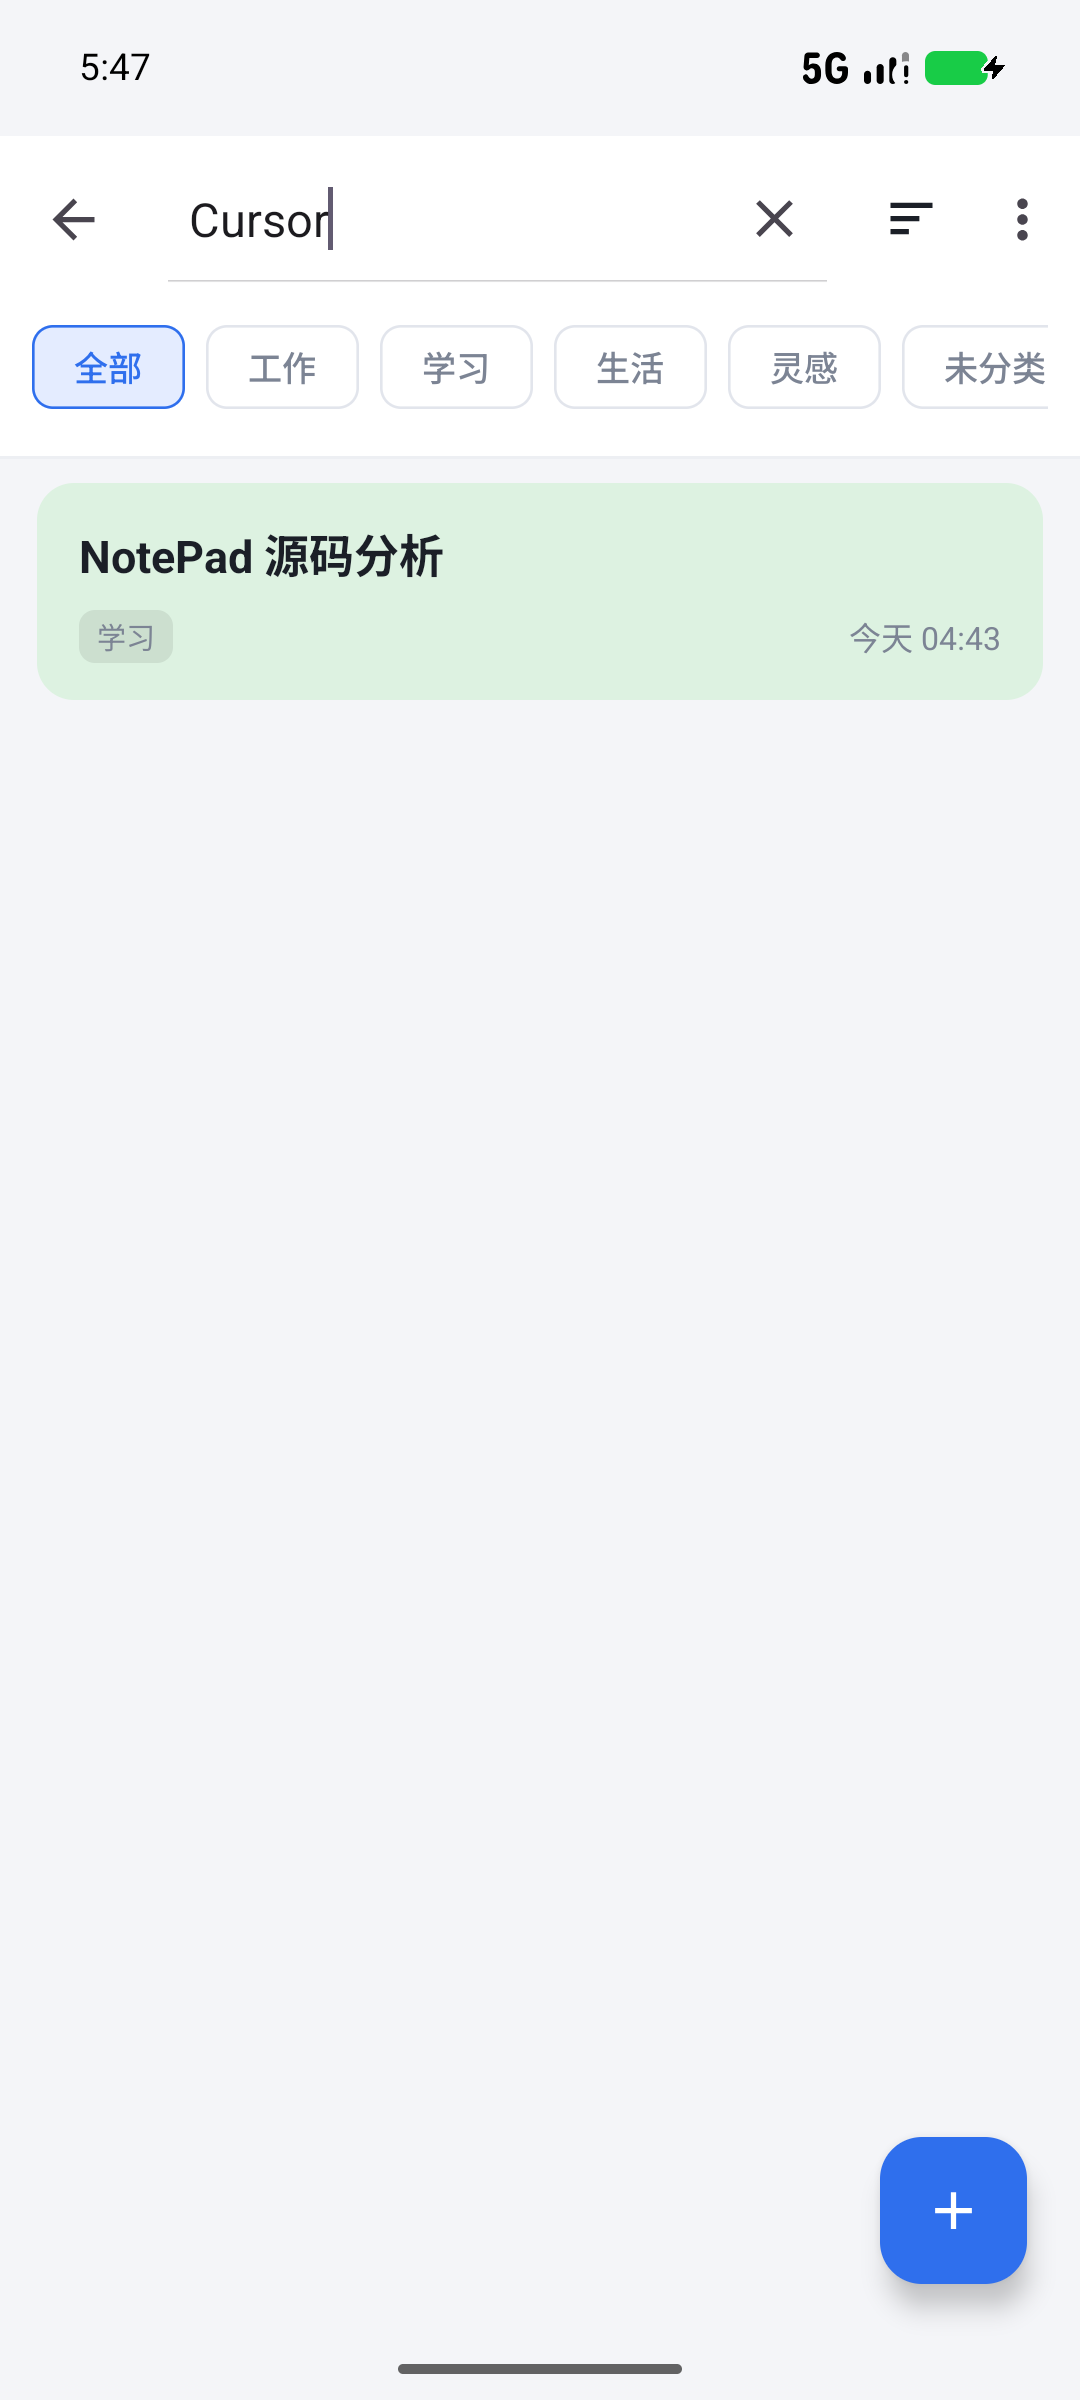
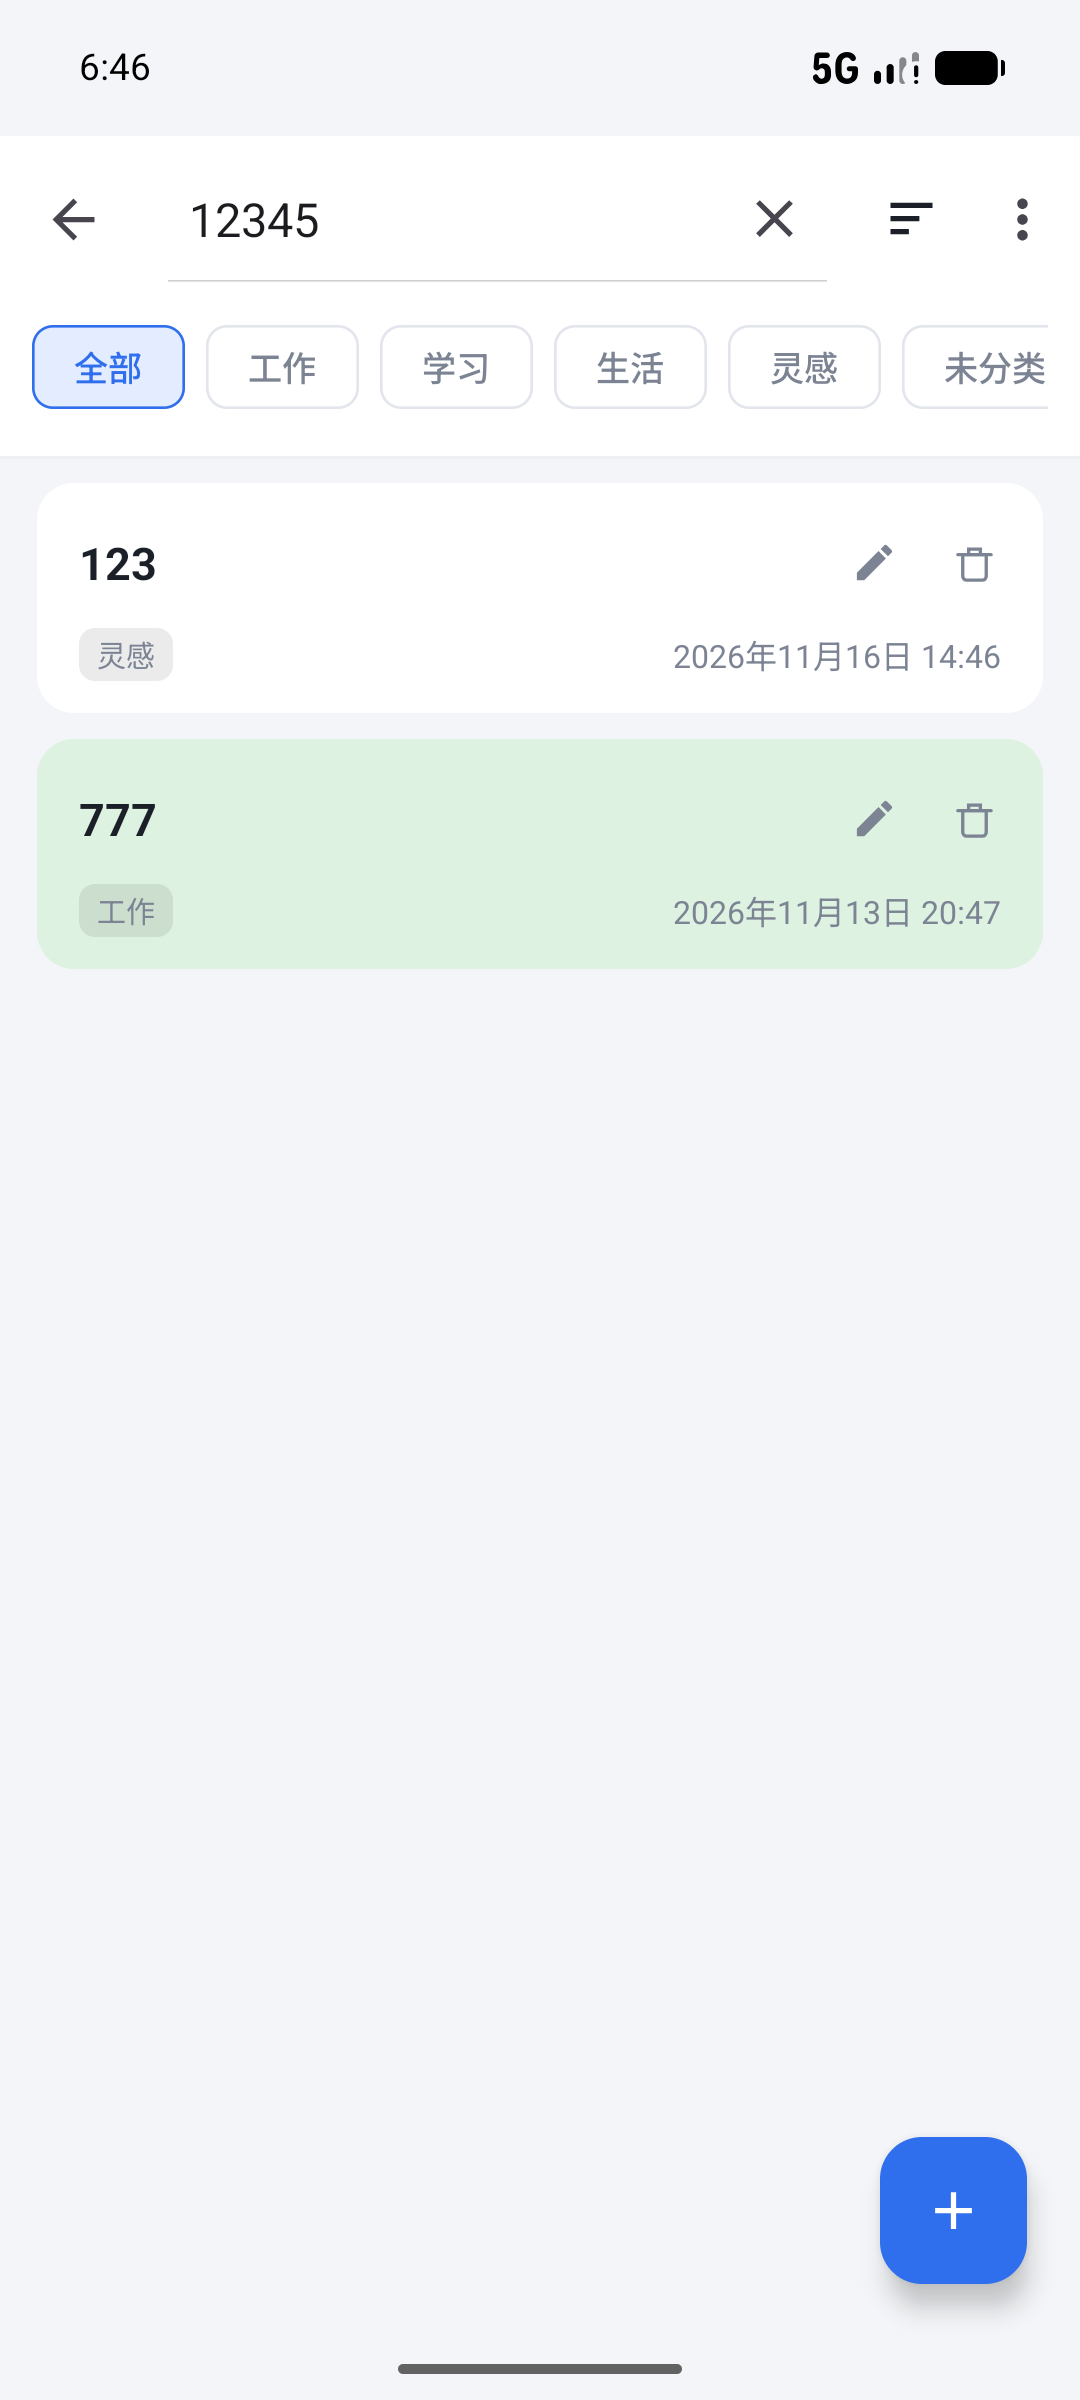
更新运行截图：按当前版本重拍全部 14 张截图
- 覆盖旧版截图（相对时间、无标题输入框、旧版长按菜单）
- 同步更新 README 预览与项目报告说明

diff --git a/项目报告.md b/项目报告.md
@@ -316,6 +316,8 @@ public boolean dispatchGenericMotionEvent(MotionEvent ev) {
 
 > 长按与右键菜单均为自绘的 `PopupWindow` 浮动菜单，长按场景只构建「复制笔记」一项；右键落在空白处时构建「粘贴笔记 / 新建笔记」，落在条目上时额外加入「复制笔记」。
 
+![长按复制菜单](screenshots/13_长按菜单.png)
+
 ### 5.8 退出前询问是否保存
 
 编辑页的返回箭头与系统返回键统一走 `confirmExit()`：
@@ -379,7 +381,7 @@ getContentResolver().update(mUri, values, null, null);
 | T10 | 设置分类 | 编辑器菜单 → 分类 | 选择后顶部信息栏更新 | 通过（图 10） |
 | T11 | 新建笔记 | FAB / 菜单新建，填写标题与正文 | 保存后出现在列表 | 通过（图 11） |
 | T12 | 空状态 | 删除全部笔记或搜索无结果 | 显示对应空状态提示 | 通过（图 12） |
-| T13 | 长按复制 | 长按笔记卡片 | 弹出仅含「复制笔记」的浮动菜单 | 通过 |
+| T13 | 长按复制 | 长按笔记卡片 | 弹出仅含「复制笔记」的浮动菜单 | 通过（图 13） |
 | T14 | 退出询问保存 | 修改内容后点返回 | 弹出「保存 / 不保存 / 取消」 | 通过（图 14） |
 | T15 | 整篇粘贴 | 复制后右键空白处粘贴 | 标题、正文、分类、颜色完整还原 | 通过 |
 | T16 | 不保存恢复 | 修改后返回选「不保存」 | 内容恢复原样，时间戳不变 | 通过 |
@@ -401,8 +403,6 @@ cd NotePad
 
 - 工程中保留了官方示例自带的 `androidTest` 用例（`NotePadActivityTest`、`NotePadProviderTest`），其基于已废弃的 `android.test` 框架，主要作为原始代码的参考，未纳入本次功能验证。
 - 本次功能验证以模拟器人工操作为主，所有截图均为实际运行截图。
-- 截图 02–11 拍摄于功能迭代中期：当时时间戳仍显示为「今天 / 昨天」等相对时间，标题输入框也尚未加入。最终版本已统一为完整日期格式（见截图 01、14）并增加独立标题输入框（见截图 14）；截图所示功能本身在最终版本中均保留。
-- 截图 13 为早期版本的条目长按菜单（当时包含打开 / 复制 / 删除），仅作为开发过程记录；当前版本按实验要求只保留「复制笔记」，对应代码见 `NotesList#showItemMenu`。
 
 ---
 
@@ -482,7 +482,7 @@ android-midterm/
 | 10 | `10_设置分类.png` | 分类单选对话框 |
 | 11 | `11_新建笔记.png` | 新建笔记界面 |
 | 12 | `12_空状态提示.png` | 空列表提示 |
-| 13 | `13_长按菜单.png` | 早期版本的条目长按菜单（开发过程记录） |
+| 13 | `13_长按菜单.png` | 长按复制菜单 |
 | 14 | `14_返回询问保存.png` | 退出前保存确认 |
 
 ---

diff --git a/README.md b/README.md
@@ -4,8 +4,8 @@
 
 <p align="center">
   <img src="screenshots/01_笔记列表_时间戳.png" width="260" alt="笔记列表">
+  <img src="screenshots/06_编辑器.png" width="260" alt="编辑器">
   <img src="screenshots/07_选择便签颜色.png" width="260" alt="便签配色">
-  <img src="screenshots/14_返回询问保存.png" width="260" alt="退出保存确认">
 </p>
 
 ## 功能一览
@@ -40,8 +40,6 @@
 | 选择颜色 | 背景生效 | 返回询问保存 |
 | --- | --- | --- |
 | ![](screenshots/07_选择便签颜色.png) | ![](screenshots/08_更换背景效果.png) | ![](screenshots/14_返回询问保存.png) |
-
-> 部分截图拍摄于功能迭代中期（界面显示相对时间、标题输入框尚未加入），最终细节以图 01、14 为准，详见 [项目报告.md](项目报告.md) 第 7.3 节。
 
 ## 技术栈
 
